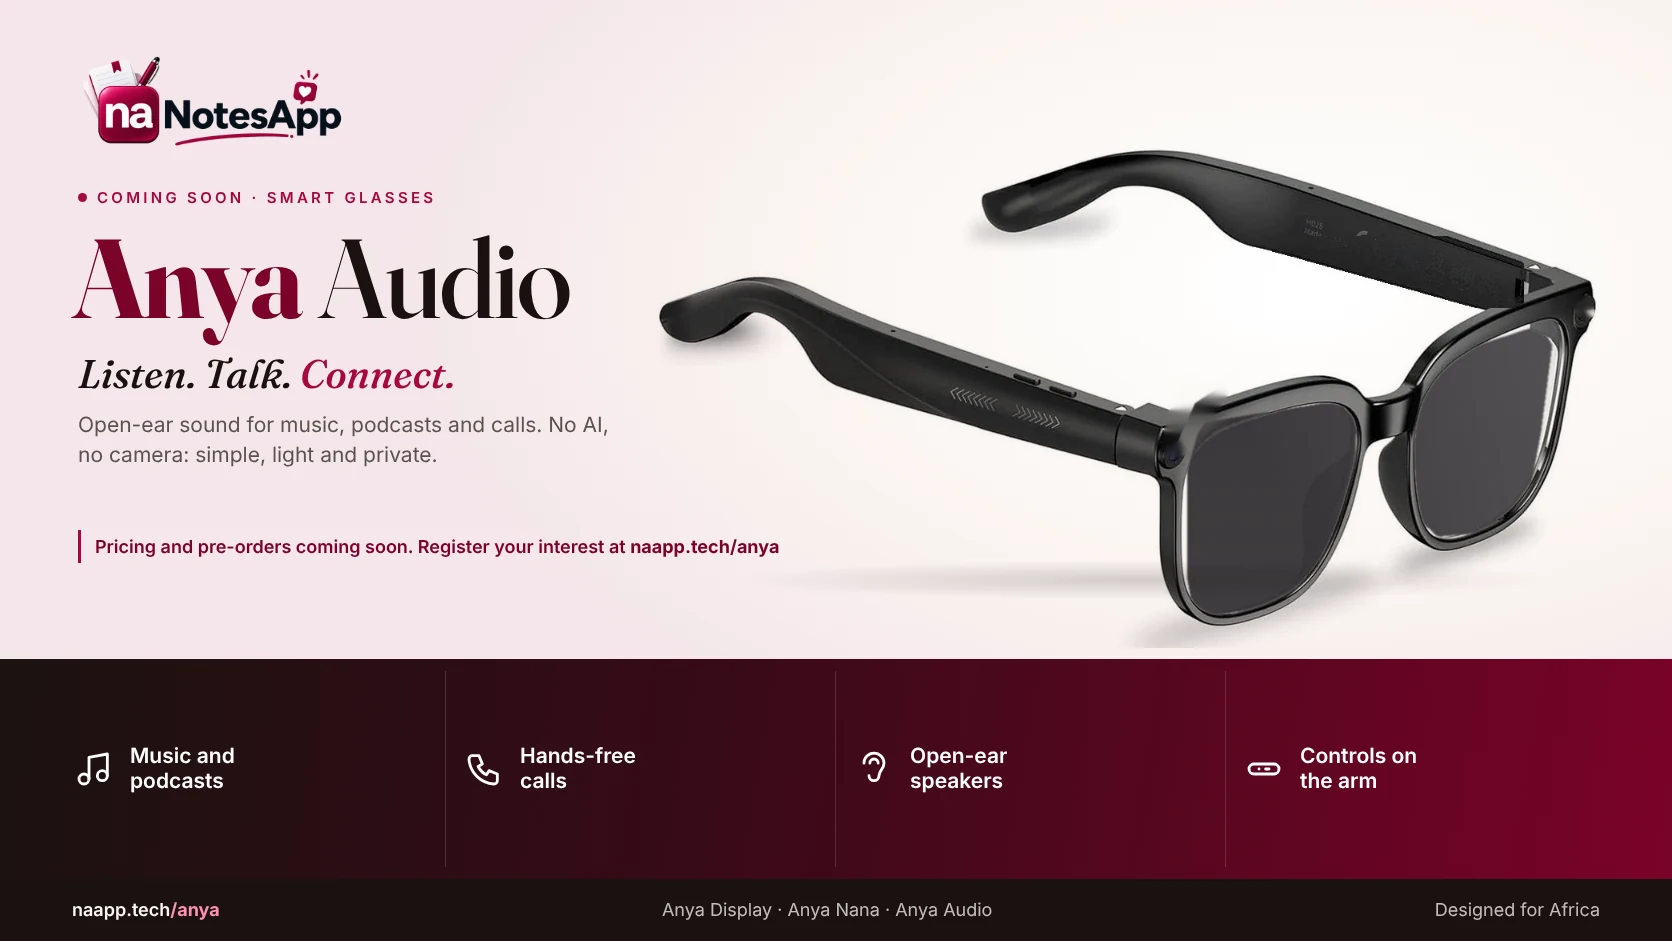
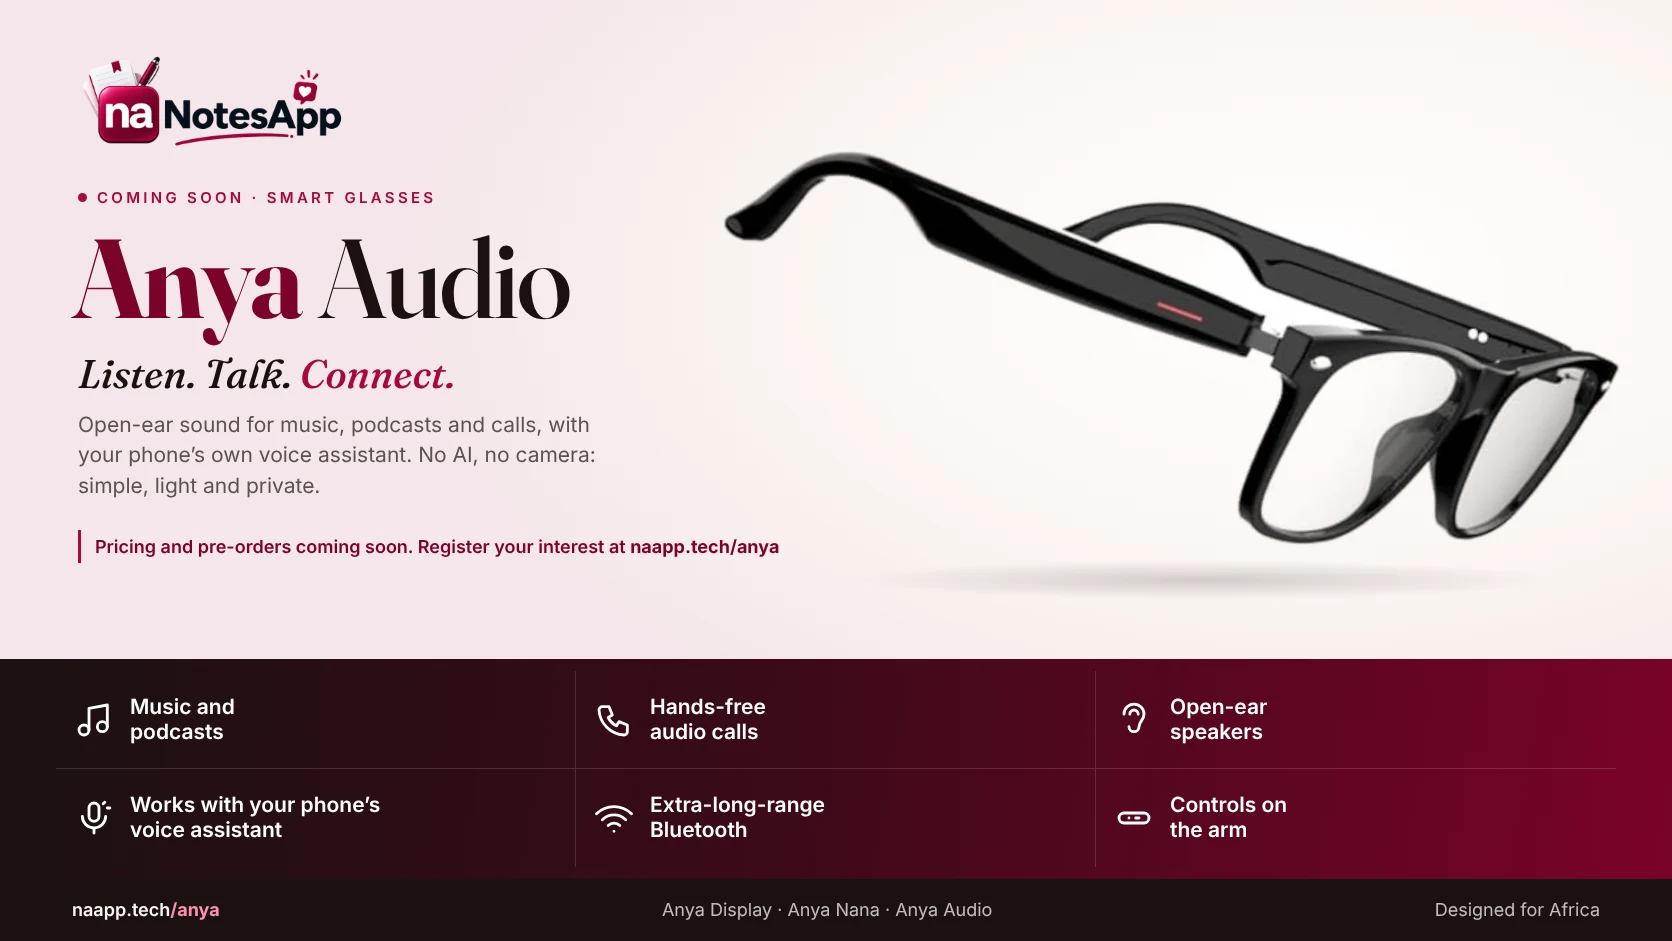
Anya Audio: the owner's square black frame, with its features (v0.137.5)

diff --git a/app/(main)/anya/page.tsx b/app/(main)/anya/page.tsx
@@ -7,7 +7,7 @@ import { BRAND_OWNER } from "@/lib/brand-guidelines";
 export const metadata: Metadata = {
   title: "Anya smart glasses",
   description:
-    "Anya by #NotesApp: smart glasses made for Africa. Anya Display puts translation in 139 languages, transcripts, a teleprompter and 1080p HD video in your lens; Anya Nana brings Nana AI to your ear as a companion, with real-time translation in 139 languages, touch controls and built-in speakers, in black, pink or clear frames; Anya Audio is for music and calls. Pricing and pre-orders coming soon.",
+    "Anya by #NotesApp: smart glasses made for Africa. Anya Display puts translation in 139 languages, transcripts, a teleprompter and 1080p HD video in your lens; Anya Nana brings Nana AI to your ear as a companion, with real-time translation in 139 languages, touch controls and built-in speakers, in black, pink or clear frames; Anya Audio is for music and calls, and works with your phone's voice assistant. Pricing and pre-orders coming soon.",
   openGraph: { images: [{ url: "/anya/anya-display-hero.webp", width: 1672, height: 941, alt: "Anya Display smart glasses by NotesApp" }] },
 };
 
@@ -22,7 +22,7 @@ const INTEREST =
 const SLIDES: AnyaSlide[] = [
   { src: "/anya/anya-display-hero.webp", name: "Display", alt: "Anya Display smart glasses by NotesApp, with a side camera: AI voice assistant, AI real-time translation, 139-language translation, AI voice recording, smart image recognition, 1080p HD video, music playback and control from the NotesApp app" },
   { src: "/anya/anya-nana-hero.webp", name: "Nana", alt: "Anya Nana smart glasses by NotesApp, black frame: Nana AI companion, AI real-time translation, 139-language translation, touch controls, built-in speakers and Bluetooth hands-free calls" },
-  { src: "/anya/anya-audio-hero.webp", name: "Audio", alt: "Anya Audio smart glasses by NotesApp, with dark lenses: music and podcasts, hands-free calls, open-ear speakers and controls on the arm" },
+  { src: "/anya/anya-audio-hero.webp", name: "Audio", alt: "Anya Audio smart glasses by NotesApp, black frame: music and podcasts, hands-free audio calls, open-ear speakers, works with your phone's voice assistant, extra-long-range Bluetooth and controls on the arm" },
 ];
 
 // Each model's picture; Nana comes in three frame colours, switched by swatches (components/anya/AnyaCasePicture.tsx).
@@ -68,10 +68,19 @@ const MODELS: Model[] = [
   {
     name: "Audio",
     line: "Listen. Talk. Connect.",
-    about: "Open-ear audio glasses for music, podcasts and calls, with no AI. Simple, light and private.",
-    points: ["Music and podcasts", "Hands-free calls", "Open-ear speakers", "Controls on the arm", "A black leather pouch", "No AI, no camera"],
+    about: "Open-ear audio glasses for music, podcasts and calls, with no AI of their own. Simple, light and private.",
+    points: [
+      "Music and podcasts",
+      "Hands-free audio calls",
+      "Open-ear speakers",
+      "Works with your phone's voice assistant (Siri or Google Assistant)",
+      "Extra-long-range Bluetooth",
+      "Controls on the arm",
+      "A black leather pouch",
+      "No AI, no camera",
+    ],
     tone: "from-[#3A0A18] to-crimson",
-    pictures: [{ name: "Black", swatch: "#111", src: "/anya/anya-audio-glasses.webp", alt: "Anya Audio smart glasses, black frame with dark lenses" }],
+    pictures: [{ name: "Black", swatch: "#111", src: "/anya/anya-audio-glasses.webp", alt: "Anya Audio smart glasses with a black frame and clear lenses" }],
   },
 ];
 

diff --git a/lib/kb-articles.ts b/lib/kb-articles.ts
@@ -1316,7 +1316,7 @@ Anya ("eye" in Igbo) is the family of smart glasses from #NotesApp. There are th
 
 - **Anya Display:** a screen in the lens, a side camera, microphones and open-ear speakers, controlled from the NotesApp app on your phone. It has Nana as an AI voice assistant, AI real-time translation in 139 languages, AI voice recording with live transcripts, smart image recognition, 1080p HD video, music playback, and a teleprompter in the lens for talks, lives and videos. It comes with a leather charging case, in black or brown, that shows the battery level on the front.
 - **Anya Nana:** open-ear audio with Nana AI built in as your companion: hands-free questions and answers, AI real-time translation in 139 languages for travel and work, touch controls on the arm, built-in speakers for calls, music and your voice assistant, and Bluetooth to pair with your phone. It comes in black, pink or clear frames. It comes with a tan leather charging case.
-- **Anya Audio:** open-ear audio for music, podcasts and calls, with no AI and no camera. It comes with a black leather pouch to carry it in (the pouch doesn't charge).
+- **Anya Audio:** open-ear audio for music, podcasts and hands-free calls, with extra-long-range Bluetooth and controls on the arm. It has no AI of its own and no camera; it works with your phone's voice assistant (Siri or Google Assistant). It comes with a black leather pouch to carry it in (the pouch doesn't charge).
 
 Anya Display and Anya Nana charge in their cases while they're stored.
 

diff --git a/lib/changelog.ts b/lib/changelog.ts
@@ -11,6 +11,14 @@ export type Release = {
 
 export const CHANGELOG: Release[] = [
   {
+    version: "v0.137.5",
+    bump: "patch",
+    date: "2026-11-04",
+    changes: [
+      { kind: "changed", text: "Anya page: Anya Audio's new look and features: hands-free audio calls, open-ear speakers, extra-long-range Bluetooth, controls on the arm, and it works with your phone's voice assistant (Siri or Google Assistant)." },
+    ],
+  },
+  {
     version: "v0.137.4",
     bump: "patch",
     date: "2026-11-04",

diff --git a/HANDOVER.md b/HANDOVER.md
@@ -731,6 +731,9 @@ All of these are on the team hub board with departments and dates (`lib/team-see
     Display's case comes in black or brown (`anya-display-case-{black,brown}.webp`), switched by swatches (`components/anya/AnyaCasePicture.tsx`).
     **v0.137.4:** Anya Nana is the owner's square-frame model in black, pink or clear (`anya-nana-{black,pink,clear}.webp`), with touch
     controls, built-in speakers and Bluetooth; its hero uses the black frame. Every model card has its picture (Nana's with frame swatches).
+    **v0.137.5:** Anya Audio is the owner's square black frame with clear lenses (`anya-audio-glasses.webp`; the hero uses the side view):
+    calls, open-ear speakers, extra-long-range Bluetooth, controls on the arm, and it works with the phone's own voice assistant (no AI
+    of its own). The owner asked not to use the aviator sunglasses photo.
 
 ## 3. How the work is done (please keep these)
 
